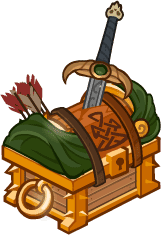
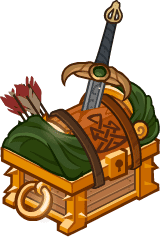
Updating Feats/Skins/Familiars/Premiums.

diff --git a/docs/feats.md b/docs/feats.md
@@ -152,10 +152,10 @@ Feats that have already released in a premium pack and are in their exclusivity 
             <span class="featTableInner">Yorven</span>
         </span>
         <span class="featTableIcon4">
-            ![Night of the Lepus Icon](images/featicons/upgradefa.png)<span class="featTooltipContents">ID: 2872**Night of the Lepus (Yorven)**You're late, you're late, for a very violent fate.<code>todo<br>DevNote: Buff FA4 20%for each Non-Standard Species additive</code></span>Night of the Lepus
+            ![Night of the Lepus Icon](images/featicons/upgradefa.png)<span class="featTooltipContents">ID: 2872**Night of the Lepus (Yorven)**You're late, you're late, for a very violent fate.<br><br><span style="color:var(--Flavescent)">Increases the damage of all Champions by 20% for each non-Standard species in the formation, stacking additively. Standard species are Aasimar, Dragonborn, Dwarf, Elf, Gnome, Goliath, Halfling, Human, Orc, Tiefling, Half-Orc, and Half-Elf.</span><code>effect_def,3170<br>DevNote: Buff FA4 20%for each Non-Standard Species additive</code></span>Night of the Lepus
         </span>
         <span class="featTableEffect">
-            <span class="featTableInner">???</span>
+            <span class="featTableInner">Increases the damage of all Champions by 20% for each non-Standard species in the formation, stacking additively. Standard species are Aasimar, Dragonborn, Dwarf, Elf, Gnome, Goliath, Halfling, Human, Orc, Tiefling, Half-Orc, and Half-Elf.</span>
         </span>
         <span class="featTableSource">
             <span class="featTableInner">1,680 Platinum<br>50,000 Gems</span>
@@ -1028,7 +1028,7 @@ These are the feats that have been filtered out of the list above due to having 
             <span class="featTableInner">Gale</span>
         </span>
         <span class="featTableIcon5">
-            ![Astral-Touched Tadpole Icon](images/featicons/laezel.png)<span class="featTooltipContents">ID: 2852**Astral-Touched Tadpole (Gale)**If this is what the fates have offered to aid our cause, then who am I to refuse?<br><br><span style="color:var(--Flavescent)">Gale adds up the total Intelligence scores of himself and all the Champions adjacent to him. He increases the effect of Archmage's Insight by 100% for every 5 INT he counts, stacking multiplicatively. If he has at least 20 stacks, your formation gains one additional Ceremorphosis stack.</span><code>effect_def,3005</code></span>Astral-Touched Tadpole
+            ![Astral-Touched Tadpole Icon](images/featicons/gale.png)<span class="featTooltipContents">ID: 2852**Astral-Touched Tadpole (Gale)**If this is what the fates have offered to aid our cause, then who am I to refuse?<br><br><span style="color:var(--Flavescent)">Gale adds up the total Intelligence scores of himself and all the Champions adjacent to him. He increases the effect of Archmage's Insight by 100% for every 5 INT he counts, stacking multiplicatively. If he has at least 20 stacks, your formation gains one additional Ceremorphosis stack.</span><code>effect_def,3005</code></span>Astral-Touched Tadpole
         </span>
         <span class="featTableEffect">
             <span class="featTableInner">Gale adds up the total Intelligence scores of himself and all the Champions adjacent to him. He increases the effect of Archmage's Insight by 100% for every 5 INT he counts, stacking multiplicatively. If he has at least 20 stacks, your formation gains one additional Ceremorphosis stack.</span>

diff --git a/docs/premium.md b/docs/premium.md
@@ -230,7 +230,7 @@ Contents:
     </span>
     <span class="premiumsTableItem">
         <span class="emergenceShopTableIcon">
-            <span class="tooltipHolder">![Frostbite Lazaapz Skin Portrait](images/premiums/skin_771.png)<span class="itemTooltipContents">ID: 771**Frostbite Lazaapz (Lazaapz)**<img src="images/premiums/skin_771.webp" alt="Skin Model WebP" style="width:auto;height:auto;max-width:min-content;max-height:100%"></span></span>
+            <span class="tooltipHolder">![Frostbite Lazaapz Skin Portrait](images/premiums/skin_771.png)<span class="itemTooltipContents">ID: 771**Frostbite Lazaapz (Lazaapz)**<span style="display:flex;flex-direction:row"><img src="images/premiums/skin_771.webp" alt="Skin Model WebP" style="width:auto;height:auto;max-width:min-content;max-height:100%"><img src="images/premiums/skin_771-drone_graphic.webp" alt="Skin Model WebP" style="width:auto;height:auto;max-width:min-content;max-height:100%"><img src="images/premiums/skin_771-repair_spark_graphic.webp" alt="Skin Model WebP" style="width:auto;height:auto;max-width:min-content;max-height:100%"></span></span></span>
         </span>
         <span class="emergenceShopTableTextColumn">
             <span style="margin-left:5px">**Skin**</span>
@@ -735,7 +735,7 @@ Contents:
     </span>
     <span class="premiumsTableItem">
         <span class="emergenceShopTableIcon">
-            <span class="emergenceShopFeatIcon4 tooltipHolder">![Night of the Lepus Feat Portrait](images/featicons/upgradefa.png)<span class="itemTooltipContents">ID: 2872**Night of the Lepus**You're late, you're late, for a very violent fate.<code>todo<br>DevNote: Buff FA4 20%for each Non-Standard Species additive</code></span></span>
+            <span class="emergenceShopFeatIcon4 tooltipHolder">![Night of the Lepus Feat Portrait](images/featicons/upgradefa.png)<span class="itemTooltipContents">ID: 2872**Night of the Lepus**You're late, you're late, for a very violent fate.<br><br><span style="color:var(--Flavescent)">Increases the damage of all Champions by 20% for each non-Standard species in the formation, stacking additively. Standard species are Aasimar, Dragonborn, Dwarf, Elf, Gnome, Goliath, Halfling, Human, Orc, Tiefling, Half-Orc, and Half-Elf.</span><code>effect_def,3170<br>DevNote: Buff FA4 20%for each Non-Standard Species additive</code></span></span>
         </span>
         <span class="emergenceShopTableTextColumn">
             <span style="margin-left:5px">**Feat**</span>
@@ -2035,7 +2035,7 @@ Contents:
 <span class="premiumsTableRow">
     <span class="premiumsTableItem">
         <span class="emergenceShopTableIcon">
-            <span class="tooltipHolder">![Unknown Familiar Portrait](images/general/unknown.png)<span class="itemTooltipContents">ID: 357**Starfall the Owlbear Cub**</span></span>
+            <span class="tooltipHolder">![Unknown Familiar Portrait](images/general/unknown.png)<span class="itemTooltipContents">ID: 357**Starfall the Owlbear Cub**As long as he approves of you, he's a bundle of cosmic cuddles!</span></span>
         </span>
         <span class="emergenceShopTableTextColumn">
             <span style="margin-left:5px">**Familiar**</span>

diff --git a/docs/skins.md b/docs/skins.md
@@ -26,7 +26,7 @@ Skins that are upcoming. Most skins are real money purchases only.
     </span>
     <span class="skinTableRow">
         <span class="skinTableIcon">
-            <span class="skinTooltipHolder" style="width:max-content">![Frostbite Lazaapz Portrait](images/skin_portraits/frostbitelazaapz.png)<span class="featTooltipContents">ID: 771**Frostbite Lazaapz (Lazaapz)**<img src="images/skin_models/frostbitelazaapz.webp" alt="Frostbite Lazaapz Model WebP" style="width:auto;height:auto;max-width:min-content;max-height:100%"></span></span>
+            <span class="skinTooltipHolder" style="width:max-content">![Frostbite Lazaapz Portrait](images/skin_portraits/frostbitelazaapz.png)<span class="featTooltipContents">ID: 771**Frostbite Lazaapz (Lazaapz)**<span style="display:flex;flex-direction:row;flex-wrap:wrap"><img src="images/skin_models/frostbitelazaapz.webp" alt="Frostbite Lazaapz Model WebP" style="width:auto;height:auto;max-width:min-content;max-height:100%"><img src="images/skin_models/frostbitelazaapz-drone_graphic.webp" alt="Frostbite Lazaapz Alternate Model WebP" style="width:auto;height:auto;max-width:min-content;max-height:100%"></span></span></span>
         </span>
         <span class="skinTableName">
             Frostbite Lazaapz
@@ -87,6 +87,23 @@ Skins that are upcoming. Most skins are real money purchases only.
         </span>
         <span class="skinTableCost">
             1,680p
+        </span>
+        <span class="skinTableDate">
+            02 Dec 2026
+        </span>
+    </span>
+    <span class="skinTableRow">
+        <span class="skinTableIcon">
+            <span class="skinTooltipHolder" style="width:max-content">![Empty Placeholder](images/general/unknown.png)<span class="featTooltipContents">ID: 761**Bone Devil Nordom (Nordom)**<img src="images/skin_models/bonedevilnordom.webp" alt="Bone Devil Nordom Model WebP" style="width:auto;height:auto;max-width:min-content;max-height:100%"></span><span style="position:absolute;bottom:-6px;right:-18px">✔</span></span>
+        </span>
+        <span class="skinTableName">
+            Bone Devil Nordom
+        </span>
+        <span class="skinTableSource">
+            Years End Giveaway - Winterfest Celebration
+        </span>
+        <span class="skinTableCost">
+            Free?
         </span>
         <span class="skinTableDate">
             02 Dec 2026

diff --git a/docs/familiars.md b/docs/familiars.md
@@ -177,7 +177,7 @@ Upcoming familiars that are found in future premiums or simply listed as unavail
     </span>
     <span class="skinTableRow">
         <span class="skinTableIcon">
-            <span class="skinTooltipHolder" style="width:max-content">![Empty Placeholder](images/general/unknown.png)<span class="featTooltipContents">ID: 357**Starfall the Owlbear Cub**</span></span>
+            <span class="skinTooltipHolder" style="width:max-content">![Empty Placeholder](images/general/unknown.png)<span class="featTooltipContents">ID: 357**Starfall the Owlbear Cub**As long as he approves of you, he's a bundle of cosmic cuddles!</span></span>
         </span>
         <span class="skinTableName">
             Starfall the Owlbear Cub
